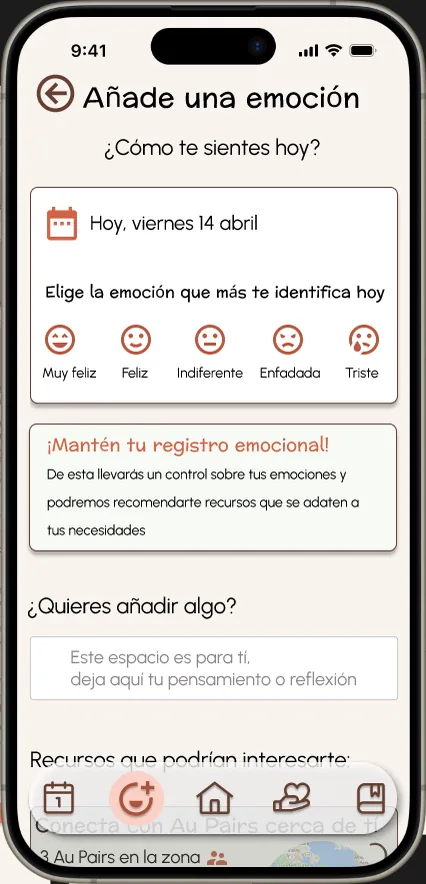
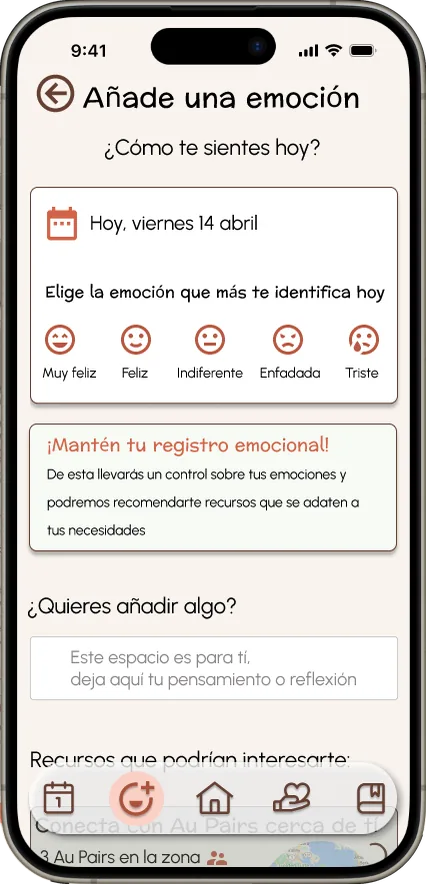
Fix responsive scaling, mockup corners and rebuild Contact desktop from Figma
- Desktop layouts scale with the window from 760 px up (restores the Figma
  home/work/about on narrower windows; a 1100 px switch had hidden it)
- Images inside side-by-side columns now scale with the page (user personas
  were stuck at 685 px on wide screens)
- App mockups get the rounded corners of the Figma frames (no more dark
  square corners or neighbouring content peeking in)
- Contact me desktop rebuilt from the Figma frame: full-width lilac band,
  flowers placed as in the design, original icons as vectors; full-bleed
  on any screen width
- Text floors keep small texts readable on narrower windows

Claude-Session: https://claude.ai/code/session_01DzLcEK54sjmjN9vF3crhtC

Changed region(s): [[0.885, 0.9468, 1.0, 1.0], [0.885, 0.0, 1.0, 0.0611], [0.0, 0.0, 0.1221, 0.0611]]

diff --git a/index.html b/index.html
@@ -262,9 +262,8 @@ u{ text-underline-offset:3px; text-decoration-thickness:1px; }
    Everything is positioned in Figma pixels (--l, --t, --cx, --w, --h, --fs, --lh) and scaled with the width
    of the page: --u is "1 Figma pixel". */
 .desk-only{ display:none; }
-/* the 1440 px layout scales with the window; below 1100 px its text would get too small, so tablets use the mobile layout */
-@media (min-width:1100px){ .desk-only{ display:block; } .mob-only{ display:none !important; } }
-.dk{ container-type:inline-size; position:relative; width:100%; max-width:2000px; margin-inline:auto; --u:calc(100cqw / 1440); color:var(--plum); line-height:1.29; }
+@media (min-width:760px){ .desk-only{ display:block; } .mob-only{ display:none !important; } }
+.dk{ container-type:inline-size; position:relative; width:100%; margin-inline:auto; --u:calc(100cqw / 1440); color:var(--plum); line-height:1.29; }
 .dk-hero{ aspect-ratio:1440 / 856; }
 .dk-work{ aspect-ratio:1440 / 1230; }
 .dk-about{ aspect-ratio:1440 / 2087; overflow:hidden; }
@@ -317,7 +316,7 @@ u{ text-underline-offset:3px; text-decoration-thickness:1px; }
 
 /* ═══════════════ Desktop case studies (laid out from the Figma frames, 1440 px) ═══════════════
    Each block keeps the gap it has in the design (inline margins in --u units); content flows, so translations never overlap. */
-.dkc{ container-type:inline-size; position:relative; width:100%; max-width:2000px; margin-inline:auto; --u:calc(100cqw / 1440); overflow:hidden; color:#502d55; font-family:var(--text); line-height:1.29; }
+.dkc{ container-type:inline-size; position:relative; width:100%; margin-inline:auto; --u:calc(100cqw / 1440); overflow:hidden; color:#502d55; font-family:var(--text); line-height:1.29; }
 .dkc .b{ position:relative; box-sizing:border-box; display:flow-root; }
 .dkc ul, .dkc li{ list-style:none; margin:0; padding:0; }
 .dkc h2, .dkc h3, .dkc h4, .dkc p{ margin:0; }
@@ -383,6 +382,36 @@ u{ text-underline-offset:3px; text-decoration-thickness:1px; }
 
 /* translations are longer than the English design: keep intro texts inside their card */
 html:not([lang="en"]) .dkc [style*="--mx"]{ width:calc(var(--mx) * var(--u)) !important; }
+
+/* Readability floor: the design (1440 px) scales with the window, so on narrower screens small texts never go below a comfortable size.
+   Blocks flow, so a bigger text simply takes more lines. */
+.dkc .t-p, .dkc .t-intro, .dkc .t-intro-c, .dkc .t-note, .dkc .dk-info{ font-size:max(15px, calc(20 * var(--u))); }
+.dkc .dk-info{ line-height:1.5; }
+.dkc .t-sub{ font-size:max(17px, calc(24 * var(--u))); }
+.dkc .dk-band{ font-size:max(17px, calc(32 * var(--u))); }
+.dkc .dk-ul > li::before{ top:max(8px, calc(8 * var(--u))); }
+.dkc .bl, .dkc .bi{ font-size:max(13px, calc(22 * var(--u))); }
+.dkc .bi{ line-height:1.6; }
+.dkc .dk-btn{ font-size:max(17px, calc(32 * var(--u))); }
+.dkc .dk-cta .t-note{ font-size:max(14px, calc(20 * var(--u))); }
+.dk .dk-card-sub, .dk .dk-card-tags{ font-size:max(14px, calc(20 * var(--u))); }
+.dk .dk-btn{ font-size:max(16px, calc(32 * var(--u))); }
+.dk .dk-chip{ font-size:max(15px, calc(38 * var(--u))); }
+.dk .dk-text{ font-size:max(16px, calc(38 * var(--u))); }
+.dk .dk-note{ font-size:max(14px, calc(20 * var(--u))); }
+
+/* images inside side-by-side columns follow the column width (they scale with the page) */
+.dkc .rc > img{ width:100%; height:auto; }
+/* Contact me (desktop) */
+.dk-contact-d{ aspect-ratio:1440 / 1636; overflow:hidden; }
+.dk .dk-fl-contact{ left:calc(var(--u) * 1136.49); top:calc(var(--u) * -218.68); width:calc(var(--u) * 350.562); height:auto; max-width:none; transform:rotate(-32.67deg); pointer-events:none; }
+.dk .dk-contact{ display:block; text-decoration:none; color:#502d55; }
+.dk .dk-contact img{ display:block; max-width:none; }
+.dk .dk-ct{ position:absolute; white-space:nowrap; font-size:max(16px, calc(var(--u) * 38)); line-height:1.29; }
+@media (hover:hover){ .dk .dk-contact:not(.dk-mail):hover .dk-ct{ text-decoration:underline; } }
+.dk .dk-mail{ cursor:default; -webkit-tap-highlight-color:transparent; }
+.dk .dk-italic{ font-size:max(16px, calc(var(--u) * 38)); }
+.dk-contact-d .dk-lilac-text{ padding-top:0; }
 
 </style>
 </head>
@@ -733,7 +762,19 @@ html:not([lang="en"]) .dkc [style*="--mx"]{ width:calc(var(--mx) * var(--u)) !im
   </div>
 </article></section>
 
-<section id="contact" class="contact" aria-labelledby="contact-title">
+<section id="contact"><div class="dk dk-contact-d desk-only" aria-labelledby="contact-title-d" role="region">
+  <img class="p dk-fl-contact" src="img/dk-flowers.webp" alt="" aria-hidden="true" width="1080" height="1920" loading="lazy">
+  <h2 class="p dk-boldonse" id="contact-title-d" style="--l:34;--t:70;--fs:152;--lh:286" data-i18n="contact.title">Contact me</h2>
+  <p class="p dk-italic" style="--l:42;--t:337;--fs:38" data-i18n="contact.subtitle">Let's connect and build something meaningful together</p>
+  <p class="p dk-text" style="--l:42;--t:407;--w:1376;--fs:38" data-i18n="contact.text">Whether you have an open Junior UX/UI position, a freelance project, or just want to say hi, my inbox is always open!</p>
+  <a class="p dk-contact" style="--l:319;--t:626;--w:821;--h:96" href="https://wa.me/393445443117" target="_blank" rel="noopener"><img src="img/icon-whatsapp.svg" alt="WhatsApp" width="95" height="96" style="width:calc(95.00 * var(--u));height:calc(96.00 * var(--u))"><span class="dk-ct" style="left:calc(121.00 * var(--u));top:calc(26.00 * var(--u))">+39 3445443117</span><span class="sr-only" data-i18n="contact.newtab"> (opens in a new tab)</span></a>
+  <a class="p dk-contact" style="--l:321;--t:763;--w:827;--h:95" href="https://www.linkedin.com/in/nathalie-g%C3%B3mez" target="_blank" rel="noopener"><img src="img/icon-linkedin.svg" alt="LinkedIn" width="95" height="95" style="width:calc(95.00 * var(--u));height:calc(95.00 * var(--u))"><span class="dk-ct" style="left:calc(127.00 * var(--u));top:calc(22.00 * var(--u))">www.linkedin.com/in/nathalie-gómez</span><span class="sr-only" data-i18n="contact.newtab"> (opens in a new tab)</span></a>
+  <a class="p dk-contact dk-mail" style="--l:322;--t:910;--w:826;--h:69" href="mailto:nathalia8gomez@gmail.com"><img src="img/icon-gmail.svg" alt="Gmail" width="91" height="69" style="width:calc(91.00 * var(--u));height:calc(69.00 * var(--u))"><span class="dk-ct" style="left:calc(126.00 * var(--u));top:calc(18.00 * var(--u))">nathalia8gomez@gmail.com</span></a>
+  <div class="p dk-lilac" style="--l:0;--t:1063;--h:96"></div>
+  <p class="p dk-lilac-text" style="--l:61;--t:1063;--h:96;--w:1340;--fs:38"><span data-i18n="contact.location"><u>Location &amp; Availability</u>: Based in Italy · Open to full-time remote &amp; hybrid roles</span></p>
+  <a class="p dk-btn" style="--cx:411.5;--t:1391" href="#about" data-i18n="btn.aboutMe">About me</a>
+  <a class="p dk-btn" style="--cx:995.5;--t:1391" href="#work" data-i18n="btn.viewWork">View my work</a>
+</div><div class="contact mob-only" aria-labelledby="contact-title" role="region">
   <img class="flower flower-contact" src="img/flower-contact.webp" width="254" height="275" loading="lazy" decoding="async" alt="">
   <h2 class="giant" id="contact-title" data-i18n="contact.title">Contact me</h2>
   <p class="intro" data-i18n="contact.subtitle">Let's connect and build something meaningful together</p>
@@ -748,7 +789,7 @@ html:not([lang="en"]) .dkc [style*="--mx"]{ width:calc(var(--mx) * var(--u)) !im
     <a class="btn btn-lg" href="#about" data-i18n="btn.aboutMe">About me</a>
     <a class="btn btn-lg" href="#work" data-i18n="btn.viewWork">View my work</a>
   </div>
-</section>
+</div></section>
 
 </main>
 
